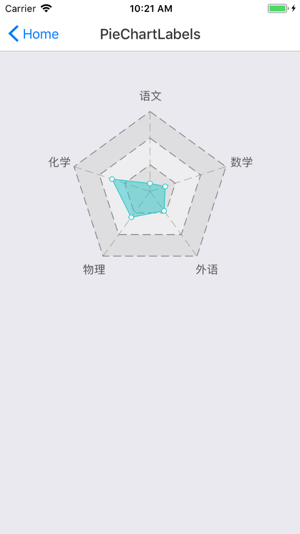
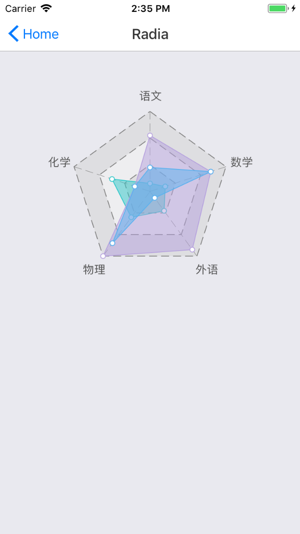
replace img of raida

Changed region(s): [[0.33, 0.2397, 0.72, 0.4794], [0.33, 0.0, 0.66, 0.0899]]

diff --git a/app/Entry.js b/app/Entry.js
@@ -68,7 +68,7 @@ const RootNavigator = StackNavigator({
     Radia: {
         screen: Radia,
         navigationOptions: {
-            headerTitle: 'PieChartLabels',
+            headerTitle: 'Radia',
             headerStyle: {
                 backgroundColor: '#fff',
             },
